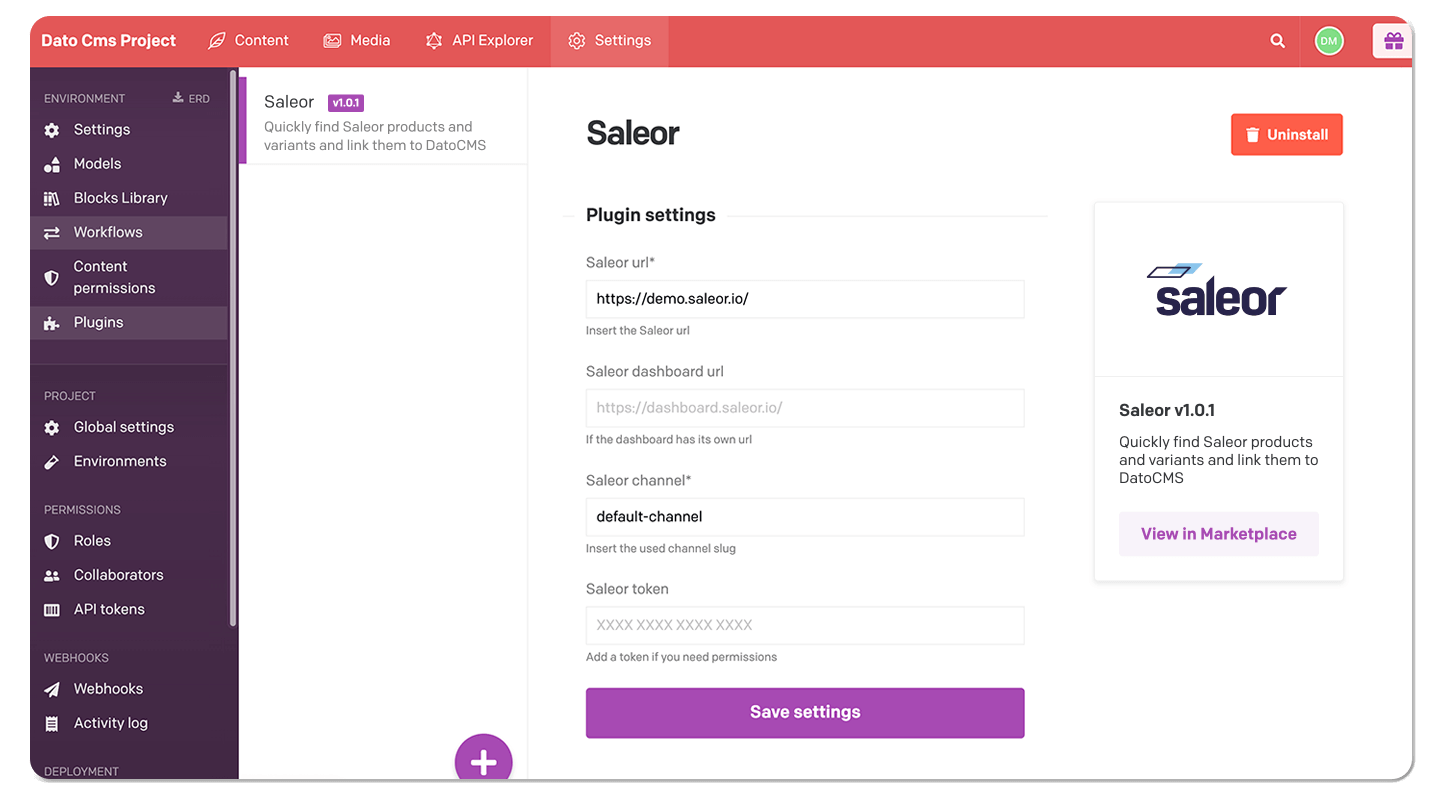
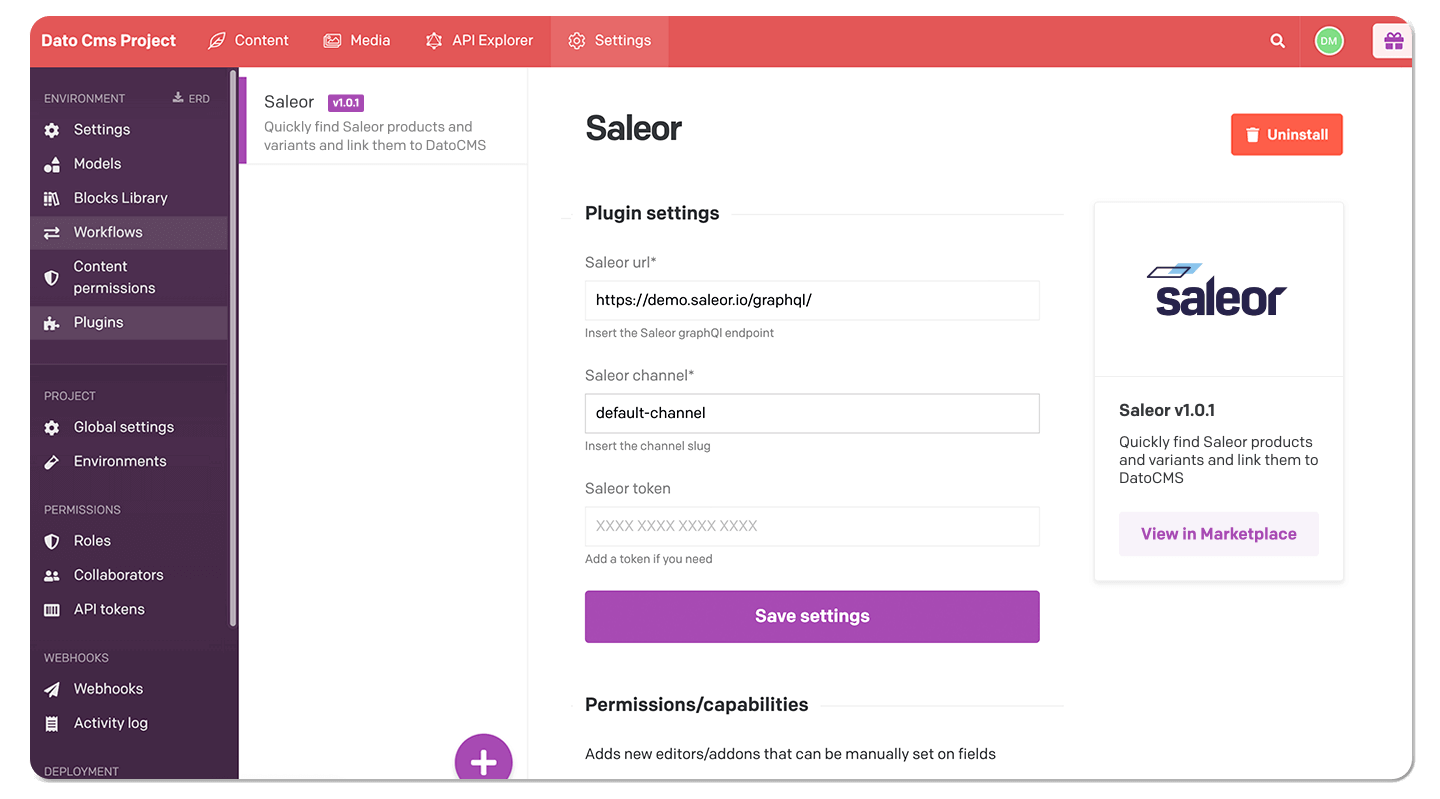
Rmeove parameters

diff --git a/src/components/ProductBlock/index.tsx b/src/components/ProductBlock/index.tsx
@@ -1,24 +1,14 @@
-import { Config, Media, Product } from '../../classes/SaleorClient'
+import { Media, Product } from '../../classes/SaleorClient'
 import classNames from 'classnames'
 
 import s from './styles.module.css'
 
 type PropTypes = {
   product: Product
-  config: Config
   selected?: boolean
 }
 
-export default function ProductBlock({ product, config, selected }: PropTypes) {
-  const backendUrl = config.backendUrl.endsWith('/')
-    ? config.backendUrl.slice(0, -1)
-    : config.backendUrl
-  const dashboardUrl =
-    config.dashboardUrl && config.dashboardUrl.endsWith('/')
-      ? config.dashboardUrl.slice(0, -1)
-      : config.dashboardUrl
-  const url = dashboardUrl || backendUrl
-
+export default function ProductBlock({ product, selected }: PropTypes) {
   const getMedia = (media: Media[]) => {
     const finded = media.find((media: Media) => media.type === 'IMAGE')
     if (finded) {
@@ -41,11 +31,7 @@ export default function ProductBlock({ product, config, selected }: PropTypes) {
         <p className={s['product__pretitle']}>{product?.sku ? 'Variant' : 'Product '}</p>
         <h2 className={s['product__title']}>
           {/* If it is not a variant it could be a link */}
-          {selected && !product?.product?.name ? (
-            <a href={`${url}/products/${product.id}`} target='_blank' rel='noreferrer'>
-              {product.name}
-            </a>
-          ) : product?.product?.name ? (
+          {product?.product?.name ? (
             `${product.product.name} ${product.name}`
           ) : (
             product.name
@@ -57,10 +43,7 @@ export default function ProductBlock({ product, config, selected }: PropTypes) {
         {product?.sku && <p className={s['product__variants']}>Sku {product?.sku}</p>}
         {product.product && (
           <p className={s['product__variants']}>
-            Variant of{' '}
-            <a href={`${url}/products/${product.product.id}`} target='_blank' rel='noreferrer'>
-              {product.product.name}
-            </a>
+            Variant of{' '}  <span> {product.product.name}</span>
           </p>
         )}
       </div>

diff --git a/src/entrypoints/ConfigScreen/index.tsx b/src/entrypoints/ConfigScreen/index.tsx
@@ -38,22 +38,9 @@ export default function ConfigScreen({ ctx }: Props) {
                   <TextField
                     id='backendUrl'
                     label='Saleor url'
-                    hint='Insert the Saleor url'
-                    placeholder='https://backend.saleor.io/'
+                    hint='Insert the Saleor graphQl endpoint'
+                    placeholder='https://backend.saleor.io/graphql/'
                     required
-                    error={error}
-                    {...input}
-                  />
-                )}
-              </Field>
-
-              <Field name='dashboardUrl'>
-                {({ input, meta: { error } }) => (
-                  <TextField
-                    id='dashboardUrl'
-                    label='Saleor dashboard url'
-                    hint='If the dashboard has its own url'
-                    placeholder='https://dashboard.saleor.io/'
                     error={error}
                     {...input}
                   />
@@ -66,7 +53,7 @@ export default function ConfigScreen({ ctx }: Props) {
                   <TextField
                     id='channel'
                     label='Saleor channel'
-                    hint='Insert the used channel slug'
+                    hint='Insert the channel slug'
                     placeholder='channel-slug'
                     required
                     error={error}
@@ -81,7 +68,7 @@ export default function ConfigScreen({ ctx }: Props) {
                   <TextField
                     id='token'
                     label='Saleor token'
-                    hint='Add a token if you need permissions'
+                    hint='Add a token if you need'
                     placeholder='XXXX XXXX XXXX XXXX'
                     error={error}
                     {...input}

diff --git a/src/classes/SaleorClient.ts b/src/classes/SaleorClient.ts
@@ -1,6 +1,5 @@
 export type Config = {
   backendUrl: string
-  dashboardUrl?: string
   channel: string
   token?: string
 }
@@ -98,14 +97,11 @@ const getProduct = `
 
 export default class SaleorClient {
   backendUrl: string
-  dashboardUrl?: string
   channel: string
   token?: string
 
-  constructor({ backendUrl, dashboardUrl, channel, token }: Config) {
-    this.backendUrl = backendUrl.endsWith('/') ? backendUrl.slice(0, -1) : backendUrl
-    this.dashboardUrl =
-      dashboardUrl && dashboardUrl.endsWith('/') ? dashboardUrl.slice(0, -1) : dashboardUrl
+  constructor({ backendUrl, channel, token }: Config) {
+    this.backendUrl = backendUrl.endsWith('/') ? backendUrl : `${backendUrl}/`
     this.channel = channel
     this.token = token
   }
@@ -129,7 +125,7 @@ export default class SaleorClient {
 
   /* eslint-disable @typescript-eslint/no-explicit-any */
   async fetch(requestBody: any) {
-    const res = await fetch(`${this.backendUrl}/graphql/`, {
+    const res = await fetch(`${this.backendUrl}`, {
       method: 'POST',
       headers: {
         'Content-Type': 'application/json',

diff --git a/src/entrypoints/FieldExtension/index.tsx b/src/entrypoints/FieldExtension/index.tsx
@@ -74,7 +74,7 @@ export default function FieldExtension({ ctx }: PropTypes) {
             <button type='button' onClick={(e) => handleRemove(e)} className={s['remove']}>
               <FontAwesomeIcon icon={faTimesCircle} />
             </button>
-            <ProductBlock product={product} config={config} selected={true} />
+            <ProductBlock product={product} selected={true} />
           </div>
         )}
         {/* Modal button */}

diff --git a/src/components/ProductBlock/styles.module.css b/src/components/ProductBlock/styles.module.css
@@ -40,15 +40,17 @@
 .product-selected .product__title {
   font-size: var(--font-size-l);
   font-weight: 500;
-}
-
-.product-selected .product__title a{
   color: var(--accent-color);
 }
 
 .product__variants {
   font-size: var(--font-size-xs);
-  margin-top: var(--spacing-xs);;
+  margin-top: var(--spacing-xs);
+
+}
+
+.product__variants  span{
+    color: var(--accent-color);
 }
 
 .add__container {

diff --git a/src/components/ProductModal/index.tsx b/src/components/ProductModal/index.tsx
@@ -97,7 +97,7 @@ export default function ProductModal({ ctx }: PropTypes) {
               key={product.node.id}
               onClick={(e) => handleSelect(e, product)}
             >
-              <ProductBlock product={product.node} config={config} />
+              <ProductBlock product={product.node}  />
             </div>
           ))}
         </div>
